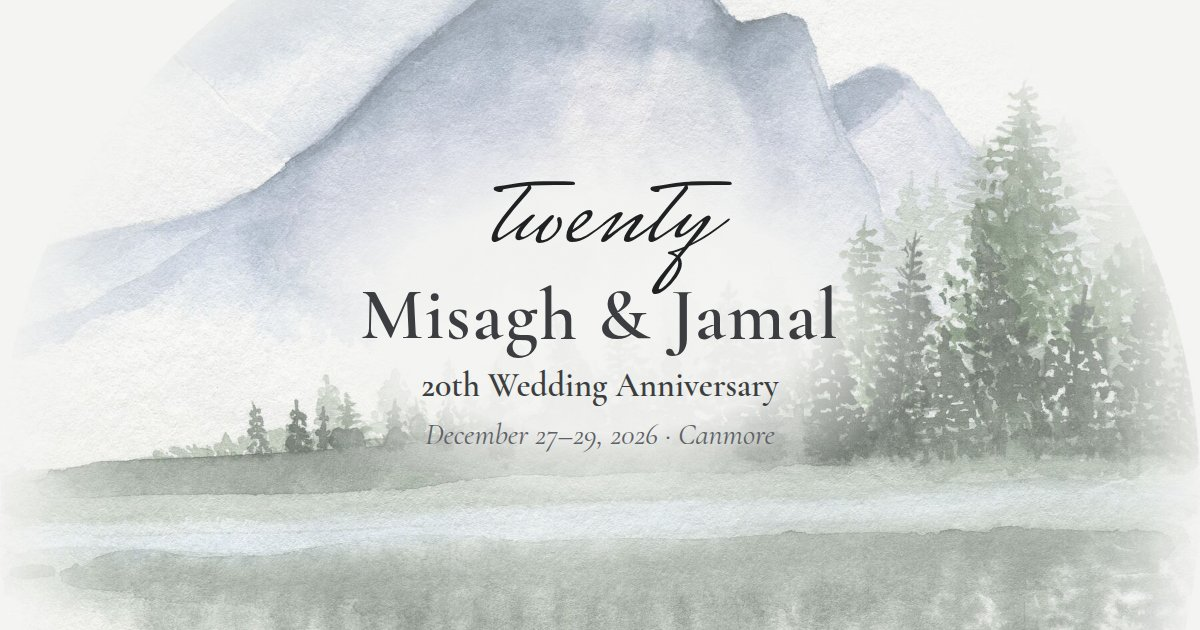
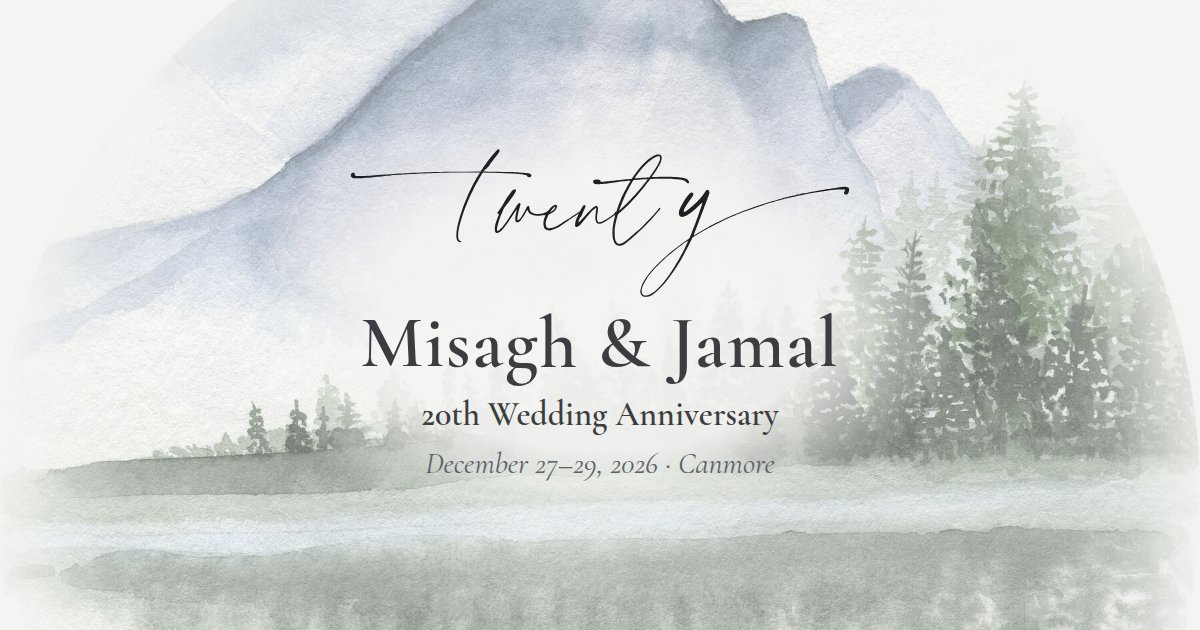
Use the invitation's hand-lettered "twenty"
Replaces the Mrs Saint Delafield text with an SVG traced from the
printed invitation, placed beside the invite text so the "y" loop
rises above the names as on the card. Sizing adapts for phones.
Also refreshes the link-preview image to use the same lettering.

Claude-Session: https://claude.ai/code/session_01KRjJZCf1Cajs7a6zY6g3pR

Changed region(s): [[0.3083, 0.2413, 0.7092, 0.754], [0.3083, 0.2714, 0.3392, 0.3016]]

diff --git a/style.css b/style.css
@@ -56,10 +56,17 @@ a { color: inherit; }
   padding: 40vh 0 18vh;
 }
 
+.invite {
+  /* Height of the "twenty" lettering; its width follows the SVG's aspect ratio */
+  --tw-h: clamp(420px, 78vh, 700px);
+  --tw-w: calc(var(--tw-h) * 378 / 1267);
+  --tw-gutter: calc(var(--tw-w) * 0.66 + 12px);
+}
+
 .invite .content {
   position: relative;
   text-align: right;
-  padding-left: 110px;
+  padding-left: var(--tw-gutter);
   text-shadow: 0 0 10px var(--paper), 0 0 3px var(--paper);
 }
 
@@ -81,15 +88,13 @@ a { color: inherit; }
   line-height: 1;
 }
 
-.invite .twenty {
+/* Sits just left of the text so the "y" loop clears the names */
+.invite .twenty-art {
   position: absolute;
-  left: -10px;
-  bottom: 12vh;
-  font-size: clamp(7rem, 22vh, 11rem);
-  transform: rotate(-90deg);
-  transform-origin: left bottom;
-  translate: 0.9em 0;
-  white-space: nowrap;
+  left: calc(var(--tw-gutter) - var(--tw-w) - 6px);
+  bottom: -0.3em;
+  height: var(--tw-h);
+  width: auto;
   pointer-events: none;
 }
 
@@ -260,8 +265,9 @@ footer .twenty.small { font-size: 3.4rem; color: var(--ink); margin-bottom: 0.1e
 
 @media (max-width: 560px) {
   .invite { padding-top: 34vh; }
-  .invite .content { padding-left: 64px; }
-  .invite .twenty { font-size: clamp(5.5rem, 18vh, 8rem); left: -18px; }
+  /* Tall enough that the "y" loop rises above the names, so the lettering can tuck in beside the text */
+  .invite { --tw-h: clamp(540px, 70vh, 620px); --tw-gutter: 100px; }
+  .invite .twenty-art { left: calc(var(--tw-gutter) - var(--tw-w) * 0.64 - 4px); }
   .names { font-size: 1.5rem; letter-spacing: 0.12em; margin-right: -0.12em; white-space: nowrap; }
   .script-line { font-size: 1.1rem; letter-spacing: 0.08em; }
   .dates { font-size: 1.1rem; letter-spacing: 0.1em; }
@@ -270,6 +276,10 @@ footer .twenty.small { font-size: 3.4rem; color: var(--ink); margin-bottom: 0.1e
   .itinerary, .rsvp { padding: 44px 20px; }
   h2 { font-size: 1.6rem; letter-spacing: 0.22em; margin-right: -0.22em; }
   .day ul { font-size: 0.95rem; }
+}
+
+@media (max-width: 380px) {
+  .invite { --tw-gutter: 84px; }
 }
 
 @media (prefers-reduced-motion: reduce) {

diff --git a/index.html b/index.html
@@ -31,8 +31,9 @@
   <main>
     <!-- Invitation -->
     <section class="card invite" aria-labelledby="names">
-      <p class="twenty" aria-hidden="true">twenty</p>
       <div class="content">
+        <!-- Hand-lettered "twenty", traced from the printed invitation -->
+        <img class="twenty-art" src="images/twenty.svg" alt="" width="378" height="1267">
         <h1 id="names" class="names">Misagh &amp; Jamal</h1>
         <p class="script-line">invite you to celebrate their<br>20<sup>th</sup> Wedding Anniversary</p>
 

diff --git a/README.md b/README.md
@@ -7,6 +7,7 @@ Plain static site (no build step), hosted on GitHub Pages at <https://jamalandmi
 - `index.html` — invitation, itinerary, RSVP
 - `style.css` — styles
 - `images/og-preview.jpg` — link-preview thumbnail (WhatsApp, iMessage, etc.)
+- `images/twenty.svg` — the hand-lettered "twenty", traced from the printed invitation
 - `CNAME` — custom domain for GitHub Pages (don't delete)
 
 ## Local preview
